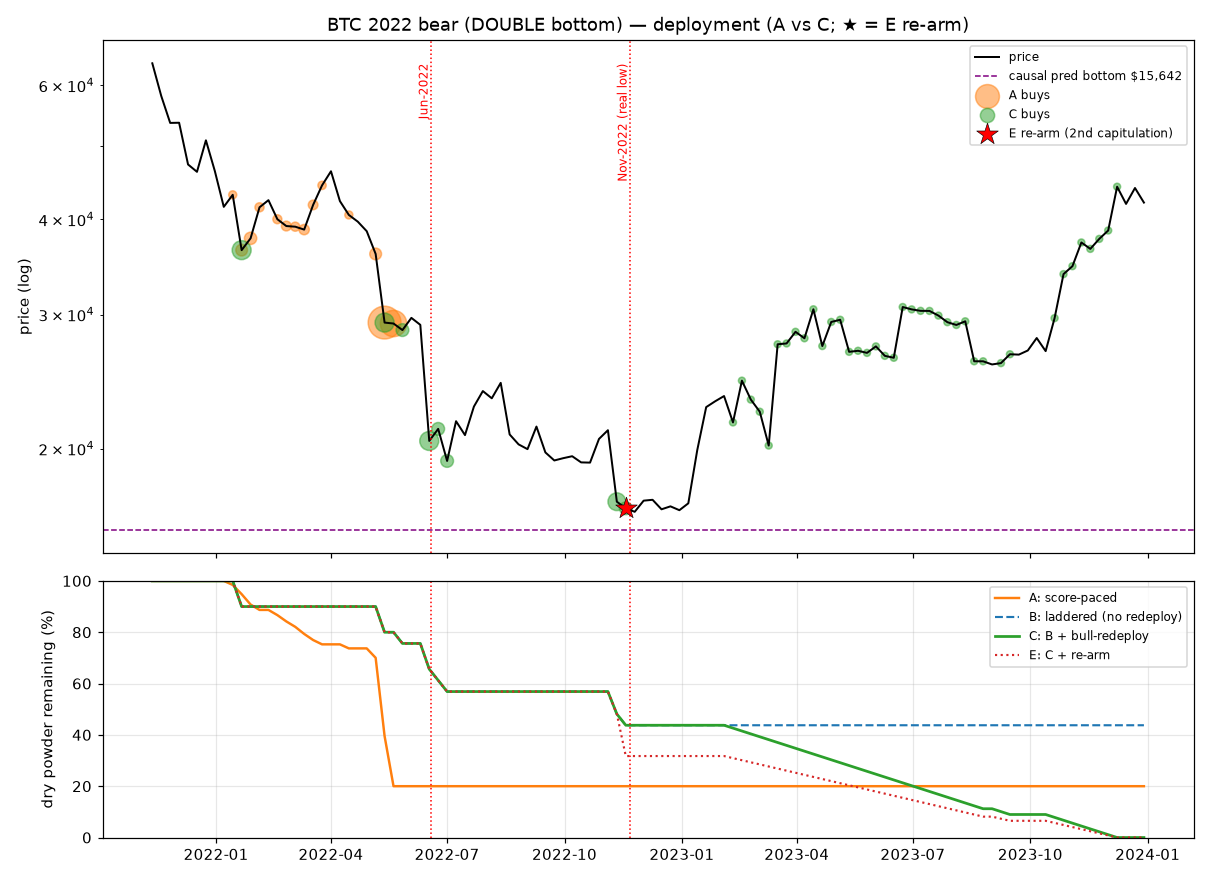
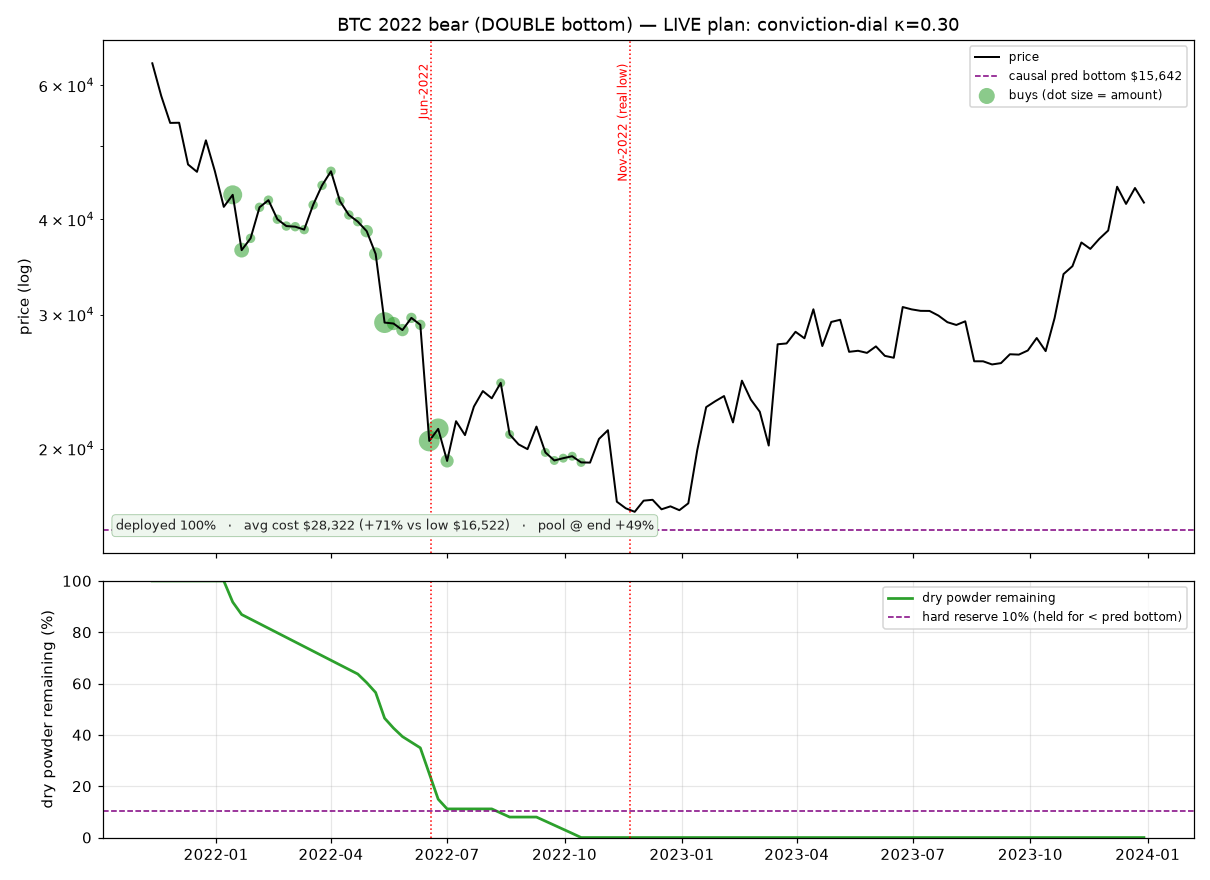
Update dashboard 2026-06-22

diff --git a/index.html b/index.html
@@ -80,7 +80,7 @@ pre.err { background:#161b22; border:1px solid #5a1f1f; color:#ffb4b4; padding:1
 </style></head><body>
       <header>
         <div class="title">📊 Crypto Cycle Dashboard</div>
-        <div class="meta">2026-06-22 · data as of 22:27 ET</div>
+        <div class="meta">2026-06-22 · data as of 23:10 ET</div>
       </header>
       <div class="cards">
     <section class="card">
@@ -151,6 +151,6 @@ recompute();
         <h3>Bottom prediction <span class='sub'>(how it's derived)</span></h3><div class='dcard'><div class='dhead'><b>BTC</b> bottom &asymp; <b>$37,337</b> <span class='neg'>(-42%)</span> around 2026-09-30 <span class='sub'>· range $30,091–$44,419, 2026-08-28→2026-11-03</span></div><ol class='dlist'><li><b>Diminishing-DD</b> [55%]: cycle max-DDs 93/82/83/76% &rarr; projected 72% &rarr; ~$35,477 (trajectory-adj &rarr; 67% &rarr; ~$40,866)</li><li><b>Closest analogues</b> [45%]: 2022-06-06 (mid_bear, -50% further, ~168d to bottom) &rarr; ~$33,025</li><li><b>Scenario mix</b>: near-bottom 0% / moderate 50% / extended bear 50%</li></ol></div><div class='dcard'><div class='dhead'><b>ETH</b> bottom &asymp; <b>$1,187</b> <span class='neg'>(-31%)</span> around 2026-08-17 <span class='sub'>· range $906–$1,382, 2026-07-13→2026-09-20</span></div><ol class='dlist'><li><b>Diminishing-DD</b> [35%]: cycle max-DDs 94/80% &rarr; projected 79% &rarr; ~$1,011 (trajectory-adj &rarr; 78% &rarr; ~$1,063)</li><li><b>Closest analogues</b> [65%]: 2022-08-27 (mid_bear, -26% further, ~86d to bottom) &rarr; ~$1,254</li><li><b>Scenario mix</b>: near-bottom 0% / moderate 50% / extended bear 50%</li></ol></div>
         
         <h3>Dynamic-DCA track record <span class='sub'>(historic clusters, decay-weighted)</span></h3><table class='d'><tr><th>Asset</th><th>n</th><th>Win</th><th>Avg&nbsp;12m</th><th>Avg&nbsp;DD</th><th>Worst&nbsp;DD</th></tr><tr><td>BTC</td><td>6</td><td>100%</td><td>+200%</td><td>-12%</td><td>-52%</td></tr><tr><td>ETH</td><td>9</td><td>95%</td><td>+38%</td><td>-17%</td><td>-79%</td></tr></table>
-        <h3>Charts <span class='sub'>· tap any chart to open it full-size</span></h3><p class='sub' style='max-width:780px;margin:-2px 0 14px;line-height:1.55'><b>Which plan is the recommendation?</b> The deployment shown up top (the ACTION box and weekly planner) is the <b>conviction-dial plan, &kappa;=0.30</b>. The charts below compare <b>alternative</b> deployment policies through real bear markets to pressure-test that logic &mdash; they are research, <b>not</b> the live plan. Each caption says which line is which.</p><div class='gallery'><figure><a class="shot" href="reports/conviction_dial.png" target="_blank" rel="noopener"><img loading="lazy" src="reports/conviction_dial.png" alt="Conviction dial"></a><figcaption><span class="takeaway">Why not go all-in</span><span class="cap">Each coloured line is a forward market scenario; the black dashed line is the worst case across them. It peaks at conviction &kappa;&asymp;0.30 &mdash; and that is exactly the setting the recommended deployment up top runs at: lean in moderately and keep a small reserve for a deeper low, rather than max-aggressive.</span><span class="sub">Conviction dial · 2026-06-18 08:57</span></figcaption></figure><figure><a class="shot" href="reports/scenario_stress.png" target="_blank" rel="noopener"><img loading="lazy" src="reports/scenario_stress.png" alt="Scenario stress test"></a><figcaption><span class="takeaway">Why the hybrid plan</span><span class="cap">Left: six ways BTC could move from today. Right: how four deployment styles score in each &mdash; all-in-now, wait-for-deep, flat DCA and <b>HYBRID</b>. The HYBRID bars stay solid everywhere and are never the worst; the recommended plan up top is this hybrid family (the &kappa;-dial), which is why it's the default.</span><span class="sub">Scenario stress test · 2026-06-18 08:57</span></figcaption></figure><figure><a class="shot" href="reports/deploy_BTC_2022.png" target="_blank" rel="noopener"><img loading="lazy" src="reports/deploy_BTC_2022.png" alt="BTC · 2022 deployment backtest"></a><figcaption><span class="takeaway">Does it hold up in a real bear? (BTC)</span><span class="cap">A robustness check, <b>not</b> the live plan: four deployment policies replayed through the real 2022 crash. Dots = buys (orange <b>A</b> = score-paced, green <b>C</b> = laddered + redeploy; red &#9733; = <b>E</b>'s 2nd-capitulation top-up); bottom panel = dry powder left for each (<b>A</b> score-paced &middot; <b>B</b> laddered &middot; <b>C</b> B+redeploy &middot; <b>E</b> C+re-arm). The recommended plan above is the &kappa;-dial &mdash; <b>not</b> policy A.</span><span class="sub">BTC · 2022 deployment backtest · 2026-06-19 15:49</span></figcaption></figure><figure><a class="shot" href="reports/deploy_ETH_2022.png" target="_blank" rel="noopener"><img loading="lazy" src="reports/deploy_ETH_2022.png" alt="ETH · 2022 deployment backtest"></a><figcaption><span class="takeaway">Does it hold up in a real bear? (ETH)</span><span class="cap">Same four-policy backtest for ETH through 2022 &mdash; <b>A</b> score-paced, <b>B</b> laddered, <b>C</b> B+redeploy, <b>E</b> C+re-arm (dots = buys; red &#9733; = E's re-arm; bottom panel = dry powder left). Like the BTC chart this stress-tests the deployment logic &mdash; the live recommendation above is the &kappa;-dial, not any single one of these.</span><span class="sub">ETH · 2022 deployment backtest · 2026-06-19 15:49</span></figcaption></figure></div>
+        <h3>Charts <span class='sub'>· tap any chart to open it full-size</span></h3><p class='sub' style='max-width:780px;margin:-2px 0 14px;line-height:1.55'><b>Which plan is the recommendation?</b> The deployment shown up top (the ACTION box and weekly planner) is the <b>conviction-dial plan, &kappa;=0.30</b>. The first two charts show why that setting is chosen; the two 2022 charts replay <b>that exact plan</b> through a real bear, so you can see how it actually deploys and holds up.</p><div class='gallery'><figure><a class="shot" href="reports/conviction_dial.png" target="_blank" rel="noopener"><img loading="lazy" src="reports/conviction_dial.png" alt="Conviction dial"></a><figcaption><span class="takeaway">Why not go all-in</span><span class="cap">Each coloured line is a forward market scenario; the black dashed line is the worst case across them. It peaks at conviction &kappa;&asymp;0.30 &mdash; and that is exactly the setting the recommended deployment up top runs at: lean in moderately and keep a small reserve for a deeper low, rather than max-aggressive.</span><span class="sub">Conviction dial · 2026-06-18 08:57</span></figcaption></figure><figure><a class="shot" href="reports/scenario_stress.png" target="_blank" rel="noopener"><img loading="lazy" src="reports/scenario_stress.png" alt="Scenario stress test"></a><figcaption><span class="takeaway">Why the hybrid plan</span><span class="cap">Left: six ways BTC could move from today. Right: how four deployment styles score in each &mdash; all-in-now, wait-for-deep, flat DCA and <b>HYBRID</b>. The HYBRID bars stay solid everywhere and are never the worst; the recommended plan up top is this hybrid family (the &kappa;-dial), which is why it's the default.</span><span class="sub">Scenario stress test · 2026-06-18 08:57</span></figcaption></figure><figure><a class="shot" href="reports/deploy_BTC_2022.png" target="_blank" rel="noopener"><img loading="lazy" src="reports/deploy_BTC_2022.png" alt="BTC · 2022 deployment backtest"></a><figcaption><span class="takeaway">Does it hold up in a real bear? (BTC)</span><span class="cap">The <b>live plan itself</b> (conviction-dial &kappa;=0.30, the same one recommended up top) replayed through the real 2022 crash and recovery. Green dots = buys (size = amount); bottom panel = dry powder left, with the small hard reserve held for below the predicted bottom. It deploys into weakness, keeps reserve for a deeper low, then redeploys as the trend turns &mdash; the box shows the resulting average cost vs the actual low.</span><span class="sub">BTC · 2022 deployment backtest · 2026-06-22 23:09</span></figcaption></figure><figure><a class="shot" href="reports/deploy_ETH_2022.png" target="_blank" rel="noopener"><img loading="lazy" src="reports/deploy_ETH_2022.png" alt="ETH · 2022 deployment backtest"></a><figcaption><span class="takeaway">Does it hold up in a real bear? (ETH)</span><span class="cap">The same live plan (conviction-dial &kappa;=0.30) replayed through ETH's 2022 bear &mdash; the exact engine recommended up top. Green dots = buys; bottom panel = dry powder left (the hard reserve waits for a low below the predicted bottom). Lets you see how the recommended plan would actually have deployed through a real bear.</span><span class="sub">ETH · 2022 deployment backtest · 2026-06-22 23:09</span></figcaption></figure></div>
       </div>
       <footer>Research / educational only — not investment advice.</footer></body></html>
